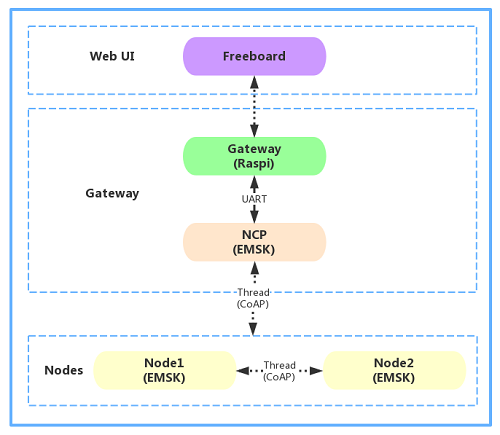
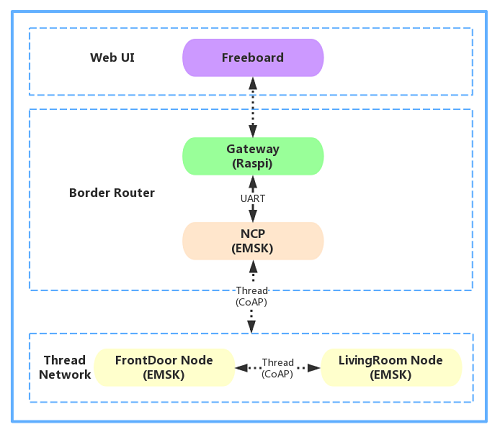
doc: update README

diff --git a/ot_smarthome_multinode/README.md b/ot_smarthome_multinode/README.md
@@ -3,7 +3,7 @@ This application is designed to show how to set up **OpenThread-CoAP-Based Smart
 
 All the Thread nodes interact with **Gateway** through the OpenThread **Network Co-Processor(NCP)**. The NCP can serve as a low-power wireless Network Co-Processor (NCP) to communicate with Userspace WPAN Network Daemon (wpantund) on Unix-like operating systems. It can be used along with OpenThread wpantund to provide Internet connectivity to the Thread network. See [embARC OpenThread NCP example][1] for more information.
 
-The Gateway contains wpantund and Web UI, running on the Host with Unix-like operating systems, like the [Raspberry Pi 3][2] with [Raspbian Stretch Lite 2017-07-05][3] installed. So the Gateway together with NCP have similar functionality as the **Border Router** available in the official OpenThread repository.
+The Gateway contains wpantund and Web UI, running on the Host with Unix-like operating systems, like the [Raspberry Pi 3][2] running recent [Raspbian Stretch Lite][3]. So the Gateway together with NCP have similar functionality as the **Border Router** available in the official OpenThread repository.
 
 There are only two nodes available now, but you can add more nodes to OpenThread Smarthome easily by taking these two examples as a reference.
 
@@ -25,25 +25,25 @@ There are two Thread Nodes in this application's Thread network:
 
 - **FrontDoor** Node. It provides one resource:
 
-	- lock status (Use **LED0** to simulate the FrontDoor's Lock status). 
+	- Lock status (Use **LED0** to simulate the FrontDoor's Lock status). 
 
 - **LivingRoom** Node. It provides two resources:
 
-	- light status (Use **LED0** to simulate the Light in the LivingRoom).
-	- temperature value.
+	- Light status (Use **LED0** to simulate the Light in the LivingRoom).
+	- Temperature value.
 
 ### Function
 
 - **FrontDoor** Node:
 
 	- Control **lock status** via Gateway and UI.
-	- Control **lock status**  by pressing the **button L** on the emsk, then itwill send it's value to Gateway.
+	- Control **lock status**  by pressing the **button L** on the emsk, then it will send the value to Gateway.
 
 - **LivingRoom** Node:
 
 	- Control **light status** via Gateway and UI.
-	- Control **light status** by pressing the **button L** on the emsk, then it will send it 's value to Gateway.
-	- Enable/Disable the functionality that sending **temperature value** to Gateway every 5s by pressing the **button R**.
+	- Control **light status** by pressing the **button L** on the emsk, then it will send the value to Gateway.
+	- Turn ON/OFF the function of sending **temperature value** to Gateway every 5s by pressing the **button R**.
 
 ### System Architecture
 
@@ -51,8 +51,8 @@ There are two Thread Nodes in this application's Thread network:
 
 ### Freeboard UI
 
-- Current data is accessed on the Freeboard UI.
-- Control lock status and light status by clicking on the light components on Freeboard UI.
+- Current data can be accessed on the Freeboard UI.
+- Control lock status and light status by clicking on the according components on the Freeboard UI.
 
 ![freeboard_ui][31]
 
@@ -65,7 +65,7 @@ There are two Thread Nodes in this application's Thread network:
 - 1 x [Digilent PMOD TMP2][6]
 - 3 x SD card
 - 1 x microUSB-USB cable
-- 1 x [Raspberry Pi 3][2] with [Raspbian Stretch Lite 2017-07-05][3] installed for running [OpenThread Smarthome Gateway][7]
+- 1 x [Raspberry Pi 3][2] (running recent [Raspbian Stretch Lite][3])
 
 ### Required Software
 
@@ -86,7 +86,7 @@ There are two Thread Nodes in this application's Thread network:
 
 3. EMSK 3 implement **NCP**.
 	- Connect **PMOD RF2 (MRF24J40)** to **J6**.
-	- Connect **microUSB** interface to the **USB** interface on the Raspberry Pi 3 (Gateway).
+	- Connect with the Raspberry Pi 3 (Gateway) via microUSB-USB cable.
 
 4. Insert SD Card to EMSKs, make sure Bit 4 of the onboard DIP switch is ON to enable the secondary bootloader.
 
@@ -104,50 +104,55 @@ Here take **EMSK2.3 - ARC EM7D** with GNU Toolset for application to show how to
 - Program the secondary bootloader application into onboard SPI flash of EMSK.
 - Generate boot.bin of the **frontDoor** Node, **livingRoom** Node and **NCP** using "make bin".
 - Insert SD Card back to the EMSKs. Press the reset button to reboot it. Wait for loading boot.bin from SD card.
-- See [embARC OSP **Bootloader** example][8] for detailed information.
+- See [embARC OSP **Bootloader** example][8] for more information.
 
-> Notice: 
+> Notice
 > 
 > **Before making boot.bin for NCP**, it is necessary to modify the source file in [embARC OpenThread NCP example' main.c][9] as the following shows:
 > 
 > 		149    PlatformInit(argc, argv, NUM_NCP);
 >
-> It is for generating pseudo random number for OpenThred automatically. Then, you don't have to input it manually.
+> It is for generating pseudo random number (by given a constant number: NUM_NCP here) for OpenThred automatically. Then, you don't need to input it manually.
 
 1. Start **FrontDoor** Node, wait a few seconds for completing Thread configuration and create a Thread network.
    Open your serial terminal such as Tera-Term on PC, and configure it to right COM port and *115200bps*.
-   Enter **ipaddr** to show the IP address of the Thread node. Here is *fdde:ad00:beef:0:63a8:7376:c6ad:828c*.
+   Enter **ipaddr** to show the IP address of the Thread node. Here it is *fdde:ad00:beef:0:63a8:7376:c6ad:828c*.
 
 2. Start **LivingRoom** Node, wait 2 minutes for completing Thread configuration and **join** the Thread network
    created by **FrontDoor** Node earlier. After that it will be a **router**.
    Open your serial terminal such as Tera-Term on PC, and configure it to right COM port and *115200bps*.
-   Enter **ipaddr** to show the IP address of the Thread node. Here is *fdde:ad00:beef:0:4f6e:7e53:67c8:f5b0*.
-   It really doesn't matter the FrontDoor Node or the LivingRoom Node to be the leader. It just depends on which node starts first.
+   Enter **ipaddr** to show the IP address of the Thread node. Here it is *fdde:ad00:beef:0:4f6e:7e53:67c8:f5b0*.
+   
+	It really doesn't matter which Thread Node to be the leader. It just depends on which node starts first.
 
 	![start_thread_nodes][33]
 
 3. Start **Gateway**, Connect the **NCP** to the Raspi via USB cable. Check the two Nodes' and Gateway's IPv6 address in the [`ot_smarthome_gw/gateway/config.js`][10]. Then, power the Raspi, the Gateway and NCP will be working automatically. See [OpenThread Smarthome Gateway's README][7] for more information and learn how to use the Gateway.
 
-	> Notice: 
+	> Notice
 	> 
-	> Before checking the IPv6 address, find out and note the IPv6 address of virtual IPv6 network interface (named utun6 here) on the Raspi. It is **Gateway's IPv6 address** also. In general, this value is constant and you don't have to change it, like here *fdde:ad00:beef:0:3b33:8a2f:8e4:67d3*. But if not, modify the value of the following macro definitions in `./src/frontDoor\main.c` and `./src/livingRoom/main.c`:
+	> For checking the IPv6 address, find out and note the IPv6 address of virtual IPv6 network interface (named utun6 here) on the Raspi. It is **Gateway's IPv6 address** also. In general, this value is constant and don't need to change it, the same as here: *fdde:ad00:beef:0:3b33:8a2f:8e4:67d3*. But if not, modify the following macro definition in `./src/frontDoor/main.c` and `./src/livingRoom/main.c`:
 	>
 	>		#define GATEWAY_ADDR_USER ("INPUT_YOUR_GATEWAY_IPV6_ADDRESS")
 	> Then, make boot.bin of the frontDoor and livingRoom Nodes again.
 
-4. Start Freeboard UI, open the browser and enter the Raspi's IPv4 address and port to visit UI, like *192.168.137.116:8080*. Enjoy the interaction using EMSK and Freeboard UI!
+4. Start Freeboard UI, open the browser and enter the Raspi's IPv4 address and port to visit UI, like *192.168.137.116:8080*. Enjoy the interaction using EMSK and Freeboard UI !
 
 	- On the frontDoor Node
-	  - Press Button L to control the Lock and send the status to UI. LED0 shows the Lock status.
+	  - Press **Button L** to control the Lock and send its status to UI. LED0 shows the Lock status.
 	- On the livingRoom Node
-	  - Press Button L to control the Light and send the status to UI. LED0 shows the Light status.
-	  - Press Button R to start/stop sending the Temperature value to UI every 5s. LED1 blinking when it reports.
+	  - Press **Button L** to control the Light and send its status to UI. LED0 shows the Light status.
+	  - Press **Button R** to start/stop sending the **Temperature value** to UI every 5s. LED1 blinking when it reports data.
 	- On the Freeboard UI
-	  - Control Lock status and Light status by clicking on the light components.
+	  - Control **Lock status** and **Light status** by clicking on the according components.
 
-[1]: https://github.com/foss-for-synopsys-dwc-arc-processors/embarc_osp/blob/master/example/baremetal/openthread/ncp/README.md "embARC OpenThread NCP example"
+> Notice
+
+> Before restart Gateway, it is better to restart all Thread Nodes.
+
+[1]: https://github.com/foss-for-synopsys-dwc-arc-processors/embarc_osp/tree/master/example/baremetal/openthread/ncp "embARC OpenThread NCP example"
 [2]: https://www.raspberrypi.org/products/raspberry-pi-3-model-b/    "Raspberry Pi 3"
-[3]: https://www.raspberrypi.org/downloads/raspbian/ "Raspbian Stretch Lite 2017-07-05"
+[3]: https://www.raspberrypi.org/downloads/raspbian/ "Raspbian Stretch Lite"
 [4]: https://www.synopsys.com/dw/ipdir.php?ds=arc_em_starter_kit    "DesignWare ARC EM Starter Kit(EMSK)"
 [5]: http://store.digilentinc.com/pmod-rf2-ieee-802-15-rf-transceiver/    "Digilent PMOD RF2 (MRF24J40)"
 [6]: http://store.digilentinc.com/pmod-tmp2-temperature-sensor/    "Digilent PMOD TMP2"
